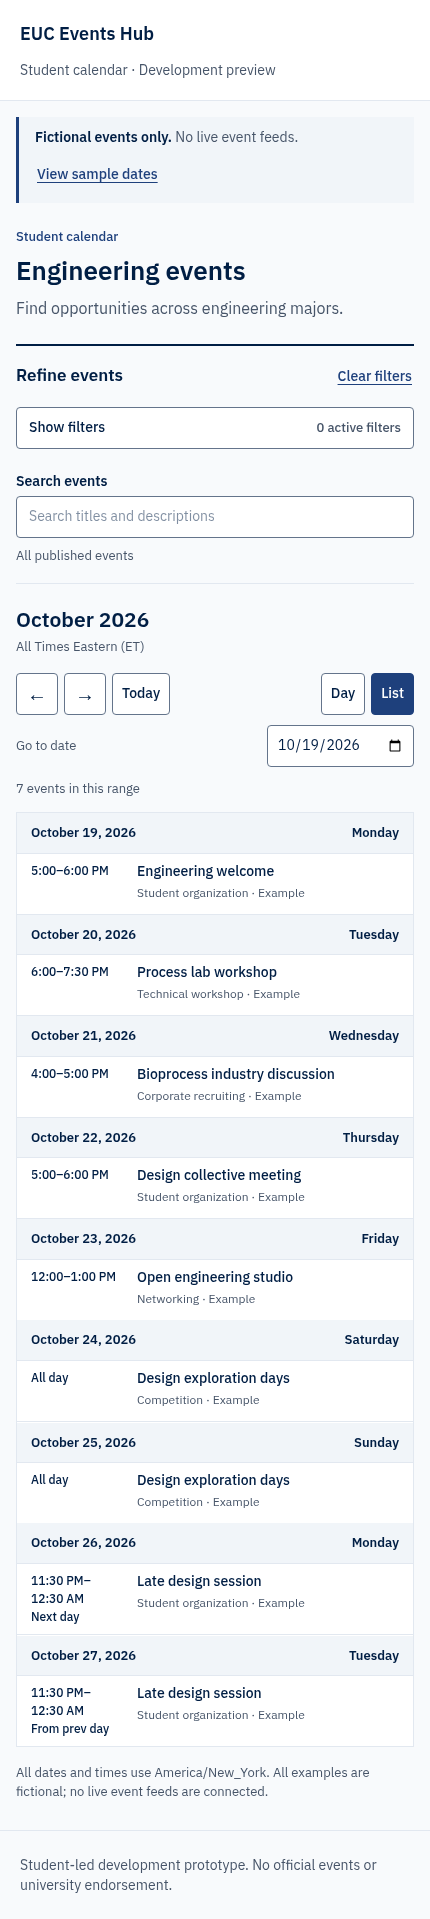
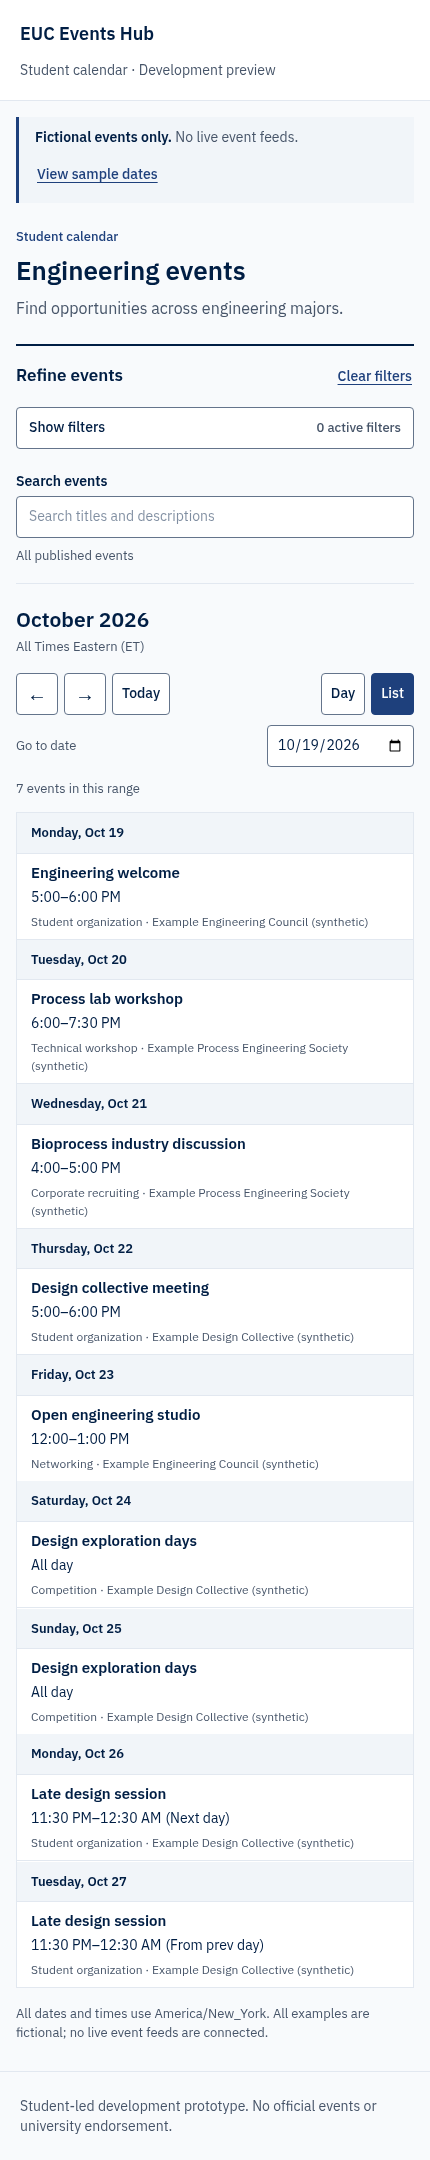
Refine mobile chronological list with shared day headers

diff --git a/components/calendar/event-calendar.tsx b/components/calendar/event-calendar.tsx
@@ -7,7 +7,7 @@ import listPlugin from "@fullcalendar/list";
 import luxonPlugin from "@fullcalendar/luxon3";
 import type { EventSourceFunc, DatesSetArg } from "@fullcalendar/core";
 import type { EventFilters } from "../../lib/data/fixtures";
-import { getEvents } from "../../lib/data/fixtures";
+import { getEvents, getOrganizations } from "../../lib/data/fixtures";
 import { DISPLAY_TIME_ZONE, easternDate } from "../../lib/time/eastern";
 import type { CalendarView } from "../../lib/domain/calendar-state";
 import { toCalendarEvent } from "./calendar-events";
@@ -58,7 +58,22 @@ export function EventCalendar({
         });
         setCount(events.length);
         setError(false);
-        success(events.map(toCalendarEvent));
+        const organizations = getOrganizations();
+        success(
+          events.map((event) => {
+            const mapped = toCalendarEvent(event);
+            return {
+              ...mapped,
+              extendedProps: {
+                ...mapped.extendedProps,
+                hosts: organizations
+                  .filter((org) => event.hostOrganizationIds.includes(org.id))
+                  .map((org) => org.name)
+                  .join(", "),
+              },
+            };
+          }),
+        );
       } catch (cause) {
         setError(true);
         failure(
@@ -181,7 +196,14 @@ export function EventCalendar({
             hour: "numeric",
             minute: "2-digit",
           }}
+          listDayFormat={
+            mobile
+              ? { weekday: "long", month: "short", day: "numeric" }
+              : undefined
+          }
+          listDaySideFormat={mobile ? false : undefined}
           eventOrder="start,title"
+          eventOrderStrict={mobile && view.startsWith("list")}
           eventInteractive
           navLinks={false}
           allDayText="All day"
@@ -226,22 +248,51 @@ export function EventCalendar({
             return info.view.type.startsWith("list") ? (
               <button
                 type="button"
-                className="list-event-trigger"
+                className={`list-event-trigger ${mobile ? "mobile-list-event" : ""}`}
                 data-calendar-event-id={info.event.id}
-                aria-label={`${info.event.title}. ${info.event.extendedProps.timeLabel}. ${info.event.extendedProps.category}. Fictional example. Open event details.`}
+                aria-label={`${info.event.title}. ${info.event.extendedProps.timeLabel}. ${info.event.extendedProps.category}. ${mobile && info.event.extendedProps.hosts ? `${info.event.extendedProps.hosts}. ` : ""}Fictional example. Open event details.`}
                 onClick={(click) => {
                   click.stopPropagation();
                   onEventSelect(info.event.id);
                 }}
               >
-                <span className="list-event-times" aria-hidden="true">
-                  {cardTimes.map((time, index) => (
-                    <span key={time + index}>
-                      <span className="time-part">{time}</span>
+                {mobile ? (
+                  <span className="mobile-list-content">
+                    <span className="event-title">
+                      {info.event.title.replace(/^Synthetic example: /, "")}
                     </span>
-                  ))}
-                </span>
-                {content}
+                    <span className="list-event-times" aria-hidden="true">
+                      {cardTimes.map((part, index) => {
+                        const isNote =
+                          /Next day|From prev day|^\+\d+ days$/.test(part);
+                        return (
+                          <span
+                            className={`time-part ${isNote ? "time-note" : ""}`}
+                            key={index}
+                          >
+                            {isNote ? `(${part})` : part}
+                          </span>
+                        );
+                      })}
+                    </span>
+                    <span className="event-category">
+                      {info.event.extendedProps.category}
+                      {info.event.extendedProps.hosts &&
+                        ` · ${info.event.extendedProps.hosts}`}
+                    </span>
+                  </span>
+                ) : (
+                  <>
+                    <span className="list-event-times" aria-hidden="true">
+                      {cardTimes.map((time, index) => (
+                        <span key={time + index}>
+                          <span className="time-part">{time}</span>
+                        </span>
+                      ))}
+                    </span>
+                    {content}
+                  </>
+                )}
               </button>
             ) : (
               content

diff --git a/tests/student-calendar.spec.ts b/tests/student-calendar.spec.ts
@@ -417,3 +417,72 @@ for (const width of [320, 375, 430, 768, 1023]) {
     ).toBe(true);
   });
 }
+
+for (const width of [320, 375, 430]) {
+  test(`mobile day groups have shared dates and title-first event rows at ${width}px`, async ({
+    page,
+  }) => {
+    await page.setViewportSize({ width, height: 1100 });
+    await page.goto(sample);
+    await expect(page.locator(".timezone-label")).toHaveText(
+      "All Times Eastern (ET)",
+    );
+    const headers = page.locator(".fc-list-day");
+    await expect(headers).toHaveCount(9);
+    await expect(headers.first()).toHaveText("Monday, Oct 19");
+    await expect(
+      page.locator('.fc-list-day[data-date="2026-10-26"]'),
+    ).toHaveCount(1);
+    for (const header of await headers.all())
+      await expect(header).not.toContainText("2026");
+    const rows = page.locator(".mobile-list-event");
+    await expect(rows).toHaveCount(9);
+    const expected = [
+      [
+        "Engineering welcome",
+        "5:00–6:00 PM",
+        "Student organization",
+        "Example Engineering Council",
+      ],
+      [
+        "Process lab workshop",
+        "6:00–7:30 PM",
+        "Technical workshop",
+        "Example Process Engineering Society",
+      ],
+      [
+        "Bioprocess industry discussion",
+        "4:00–5:00 PM",
+        "Corporate recruiting",
+        "Example Process Engineering Society",
+      ],
+    ];
+    for (const [title, time, category, host] of expected) {
+      const row = event(page, title);
+      await expect(row.locator(".event-title")).toHaveText(title);
+      await expect(row.locator(".list-event-times")).toHaveText(time);
+      await expect(row.locator(".event-category")).toContainText(category);
+      await expect(row.locator(".event-category")).toContainText(host);
+      await expect(row).not.toContainText(/2026|Oct|Monday|Tuesday|Wednesday/);
+      const titleBox = await row.locator(".event-title").boundingBox();
+      const timeBox = await row.locator(".list-event-times").boundingBox();
+      const metaBox = await row.locator(".event-category").boundingBox();
+      expect(titleBox!.y + titleBox!.height).toBeLessThanOrEqual(timeBox!.y);
+      expect(timeBox!.y + timeBox!.height).toBeLessThanOrEqual(metaBox!.y);
+    }
+    const welcome = event(page, "Engineering welcome");
+    for (const key of ["Enter", "Space"]) {
+      await welcome.focus();
+      await page.keyboard.press(key);
+      await expect(page.getByRole("dialog")).toBeVisible();
+      await page.keyboard.press("Escape");
+      await expect(page.getByRole("dialog")).not.toBeVisible();
+      await expect(welcome).toBeFocused();
+    }
+    expect(
+      await page.evaluate(
+        () => document.documentElement.scrollWidth <= innerWidth,
+      ),
+    ).toBe(true);
+  });
+}

diff --git a/components/calendar/calendar-events.test.ts b/components/calendar/calendar-events.test.ts
@@ -82,3 +82,41 @@ it("formats compact Eastern ranges with date-rollover and all-day cues", () => {
     "(60 min elapsed)",
   ]);
 });
+
+it("keeps accurate, chronological ranges for multiple events sharing one Eastern day", () => {
+  const base = getEventById("example-industry")!;
+  const records = [
+    {
+      ...base,
+      id: "late",
+      start: "2026-10-26T23:30:00-04:00",
+      end: "2026-10-27T00:30:00-04:00",
+    },
+    {
+      ...base,
+      id: "morning",
+      start: "2026-10-26T10:00:00-04:00",
+      end: "2026-10-26T11:00:00-04:00",
+    },
+    {
+      ...base,
+      id: "afternoon",
+      start: "2026-10-26T14:00:00-04:00",
+      end: "2026-10-26T15:30:00-04:00",
+    },
+  ];
+  const mapped = getEvents(
+    { start: "2026-10-26", end: "2026-10-27" },
+    records,
+  ).map(toCalendarEvent);
+  expect(mapped.map((event) => event.id)).toEqual([
+    "morning",
+    "afternoon",
+    "late",
+  ]);
+  expect(mapped.map((event) => event.extendedProps?.listTimes)).toEqual([
+    ["10:00–11:00 AM"],
+    ["2:00–3:30 PM"],
+    ["11:30 PM–", "12:30 AM", "Next day"],
+  ]);
+});

diff --git a/app/globals.css b/app/globals.css
@@ -666,3 +666,36 @@ button.control[aria-pressed="true"] {
 .event-time .time-part {
   white-space: nowrap;
 }
+
+/* The mobile chronological list uses FullCalendar's shared day headers. */
+.fc .mobile-list-event {
+  display: block;
+}
+.fc .mobile-list-content,
+.fc .mobile-list-content > span {
+  display: block;
+}
+.fc .mobile-list-content .event-title {
+  font-size: 15px;
+  font-weight: 600;
+  line-height: 1.4;
+}
+.fc .mobile-list-content .list-event-times {
+  margin-top: 4px;
+  font-size: 14px;
+  font-weight: 400;
+}
+.fc .mobile-list-content .time-part {
+  display: inline-block;
+  white-space: nowrap;
+}
+.fc .mobile-list-content .event-category {
+  margin-top: 5px;
+  font-size: 12px;
+  line-height: 1.5;
+  overflow-wrap: anywhere;
+}
+
+.fc .mobile-list-content .time-note {
+  margin-left: 4px;
+}

diff --git a/README.md b/README.md
@@ -25,7 +25,7 @@ npm run build
 
 ## Student calendar
 
-The home page supports month, week, day, and chronological list views; previous/next/today navigation; a date jump; and published-only event details. Below 1024px, the default is a chronological month list with an optional day view. Below 1024px, filters collapse behind a labeled control showing the active-filter count. On desktop the sidebar stays visible. Majors, Organizations, and Event categories expand independently and retain selections. The count includes Recommended mode, majors used by that mode, organizations, categories, and nonempty search; majors saved in All Events do not affect results or the count. List rows use concise 12-hour ranges and a Next day cue for overnight events; event details retain full dates. All displayed dates, times, week boundaries, and navigation use `America/New_York`, independently of the browser time zone.
+The home page supports month, week, day, and chronological list views; previous/next/today navigation; a date jump; and published-only event details. Below 1024px, the default is a chronological month list with an optional day view. Below 1024px, filters collapse behind a labeled control showing the active-filter count. On desktop the sidebar stays visible. Majors, Organizations, and Event categories expand independently and retain selections. The count includes Recommended mode, majors used by that mode, organizations, categories, and nonempty search; majors saved in All Events do not affect results or the count. Mobile chronological lists share a weekday and abbreviated-date header per day without repeating the year. Separate event rows show title, concise time range, and available category/host information. Overnight rows use Next day or From prev day cues; event details retain full dates. All displayed dates, times, week boundaries, and navigation use `America/New_York`, independently of the browser time zone.
 
 Use All Events to browse every published event, including unclassified examples. Recommended Events uses the selected majors and includes college-wide, explicitly targeted, and inherited host-audience events. Organization and category selections narrow results independently; search matches event titles and descriptions, ignoring case and surrounding whitespace. Clear filters returns to All Events and clears major, host, category, and search selections while preserving date and view.
 
